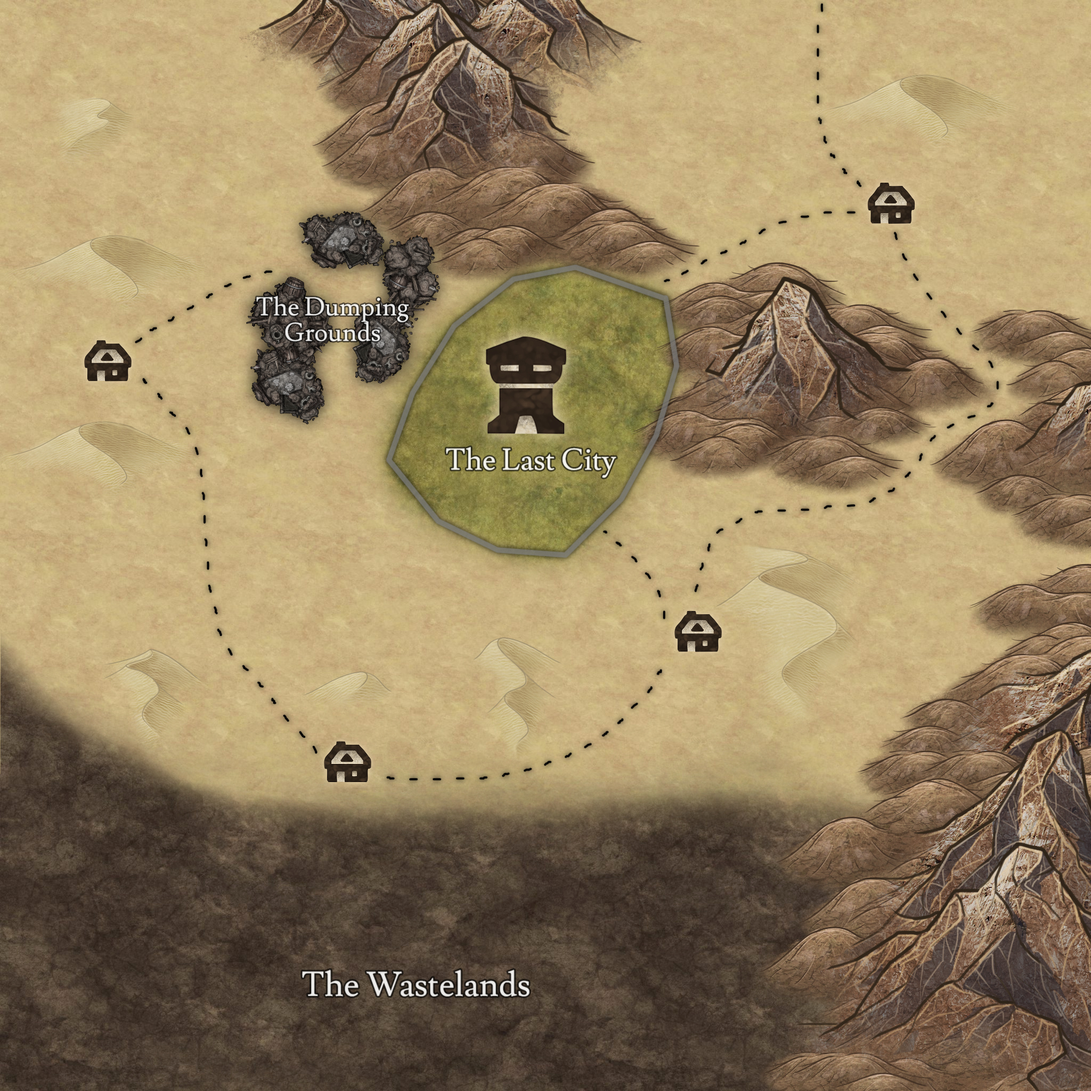
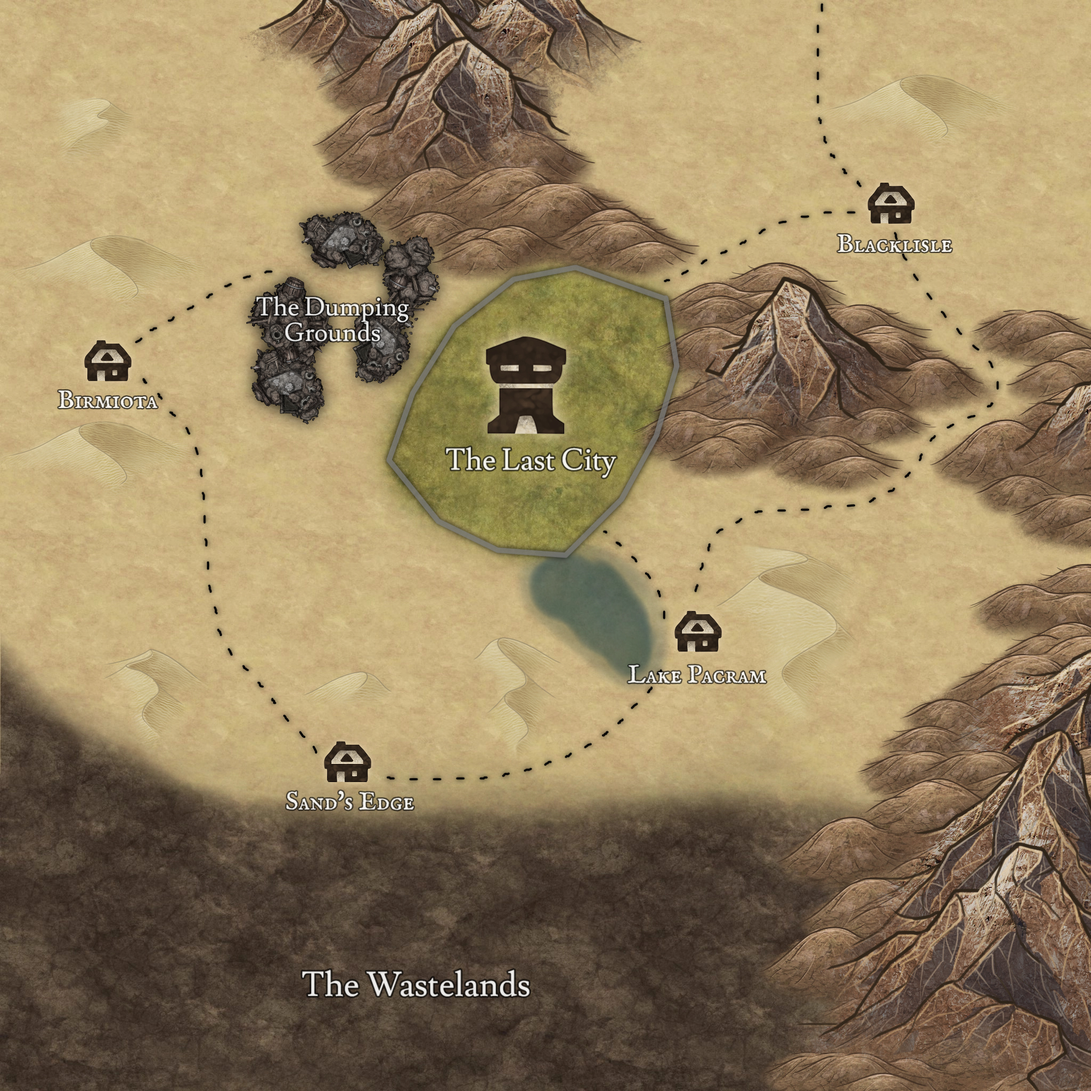
Stuff

diff --git a/4720 Final Project.html b/4720 Final Project.html
@@ -9,7 +9,7 @@
 </head>
 <body>
 <tw-story><noscript><tw-noscript>JavaScript needs to be enabled to play 4720 Final Project.</tw-noscript></noscript></tw-story>
-<tw-storydata name="4720 Final Project" startnode="4" creator="Twine" creator-version="2.3.14" ifid="1B26069B-9961-45CF-AA07-969015E31810" zoom="1" format="Harlowe" format-version="3.2.2" options="" hidden><style role="stylesheet" id="twine-user-stylesheet" type="text/twine-css"></style><script role="script" id="twine-user-script" type="text/twine-javascript"></script><tw-passagedata pid="1" name="World Map" tags="" position="700,298" size="100,100">&lt;!-- We&#39;re setting up our map marker here. For some reason these coords seem really off from how we setup the buttons...
+<tw-storydata name="4720 Final Project" startnode="4" creator="Twine" creator-version="2.3.14" ifid="1B26069B-9961-45CF-AA07-969015E31810" zoom="1" format="Harlowe" format-version="3.2.2" options="" hidden><style role="stylesheet" id="twine-user-stylesheet" type="text/twine-css"></style><script role="script" id="twine-user-script" type="text/twine-javascript"></script><tw-passagedata pid="1" name="World Map" tags="" position="700,297" size="100,100">&lt;!-- We&#39;re setting up our map marker here. For some reason these coords seem really off from how we setup the buttons...
 ah screw it, just make a bunch of ifs for it. --&gt;
 {
 (if: $currentLocation is &quot;The Dumping Grounds&quot;)[
@@ -66,9 +66,9 @@ ah screw it, just make a bunch of ifs for it. --&gt;
 	  (click: ?hook6)[(goto: &quot;Town4&quot;)]
 ]
 
-&lt;/map&gt;}</tw-passagedata><tw-passagedata pid="2" name="The Dumping Grounds" tags="" position="500,299" size="100,100">(set: $currentLocation to &quot;The Dumping Grounds&quot;)
-[[World Map]]</tw-passagedata><tw-passagedata pid="3" name="The Last City" tags="" position="899,301" size="100,100">(set: $currentLocation to &quot;The Last City&quot;)
-[[World Map]]</tw-passagedata><tw-passagedata pid="4" name="Initialize" tags="" position="1099,302" size="100,100">&lt;!-- Holds whether the player can currently travel to each location. Make sure that the names in the datamap match the names of the actual passages.--&gt;
+&lt;/map&gt;}</tw-passagedata><tw-passagedata pid="2" name="The Dumping Grounds" tags="" position="200,499" size="100,100">(set: $currentLocation to &quot;The Dumping Grounds&quot;)
+[[World Map]]</tw-passagedata><tw-passagedata pid="3" name="The Last City" tags="" position="951,501" size="100,100">(set: $currentLocation to &quot;The Last City&quot;)
+[[World Map]]</tw-passagedata><tw-passagedata pid="4" name="Initialize" tags="" position="200,99" size="100,100">&lt;!-- Holds whether the player can currently travel to each location. Make sure that the names in the datamap match the names of the actual passages.--&gt;
 (set: $locationAccessabilityList to 
 	(dm: &quot;The Dumping Grounds&quot;, true,
 		 &quot;The Last City&quot;, true,
@@ -81,13 +81,31 @@ ah screw it, just make a bunch of ifs for it. --&gt;
 
 (set: $currentLocation to &quot;The Dumping Grounds&quot;)
 
-(goto: &quot;World Map&quot;)</tw-passagedata><tw-passagedata pid="5" name="Town1" tags="" position="600,100" size="100,100">(set: $currentLocation to &quot;Town1&quot;)
-[[World Map]]</tw-passagedata><tw-passagedata pid="6" name="Town2" tags="" position="799,100" size="100,100">(set: $currentLocation to &quot;Town2&quot;)
-[[World Map]]</tw-passagedata><tw-passagedata pid="7" name="Town3" tags="" position="601,501" size="100,100">(set: $currentLocation to &quot;Town3&quot;)
+(set: $time to 0)
+
+(goto: &quot;Start&quot;)</tw-passagedata><tw-passagedata pid="5" name="Town1" tags="" position="351,500" size="100,100">{(set: $currentLocation to &quot;Town1&quot;)}
+You are currently in Birmiota.
+(display: &quot;F:DisplayTime&quot;)
+
+
+
+[[World Map]]</tw-passagedata><tw-passagedata pid="6" name="Town2" tags="" position="500,501" size="100,100">(set: $currentLocation to &quot;Town2&quot;)
+[[World Map]]</tw-passagedata><tw-passagedata pid="7" name="Town3" tags="" position="650,501" size="100,100">(set: $currentLocation to &quot;Town3&quot;)
 
 [[World Map]] </tw-passagedata><tw-passagedata pid="8" name="Town4" tags="" position="799,500" size="100,100">(set: $currentLocation to &quot;Town4&quot;)
 
-[[World Map]]</tw-passagedata></tw-storydata>
+[[World Map]]</tw-passagedata><tw-passagedata pid="9" name="Start" tags="" position="400,100.5" size="100,100">You were born into the Outsider life — traveling from place to place, scrounging for resources to survive, and trying to make the best of what remains of the world. 
+
+When your parents could no longer care for you and your younger brother, you set out into the world on your own.
+
+Today, you&#39;ve arrived in the small settlement of Birmiota early in the morning, searching for food to replenish your dwindling supplies.
+
+[[Enter Birmiota|Town1]]</tw-passagedata><tw-passagedata pid="10" name="F:DisplayTime" tags="" position="1201,200.5" size="100,100">{It is currently 
+(if: $time is 0)[morning.]
+(if: $time is 1)[noon.]
+(if: $time is 2)[afternoon.]
+(if: $time is 3)[evening.]
+(if: $time is 4)[night.]}</tw-passagedata></tw-storydata>
 <script title="Twine engine code" data-main="harlowe">"use strict";var _slicedToArray=function(){return function(e,t){if(Array.isArray(e))return e;if(Symbol.iterator in Object(e))return function(e,t){var n=[],r=!0,a=!1,i=void 0;try{for(var o,s=e[Symbol.iterator]();!(r=(o=s.next()).done)&&(n.push(o.value),!t||n.length!==t);r=!0);}catch(e){a=!0,i=e}finally{try{!r&&s.return&&s.return()}finally{if(a)throw i}}return n}(e,t);throw new TypeError("Invalid attempt to destructure non-iterable instance")}}(),_typeof="function"==typeof Symbol&&"symbol"==typeof Symbol.iterator?function(e){return typeof e}:function(e){return e&&"function"==typeof Symbol&&e.constructor===Symbol&&e!==Symbol.prototype?"symbol":typeof e};function _defineProperty(e,t,n){return t in e?Object.defineProperty(e,t,{value:n,enumerable:!0,configurable:!0,writable:!0}):e[t]=n,e}function _toConsumableArray(e){if(Array.isArray(e)){for(var t=0,n=Array(e.length);t<e.length;t++)n[t]=e[t];return n}return Array.from(e)}!function(){
 /**
  * @license almond 0.3.3 Copyright jQuery Foundation and other contributors.
